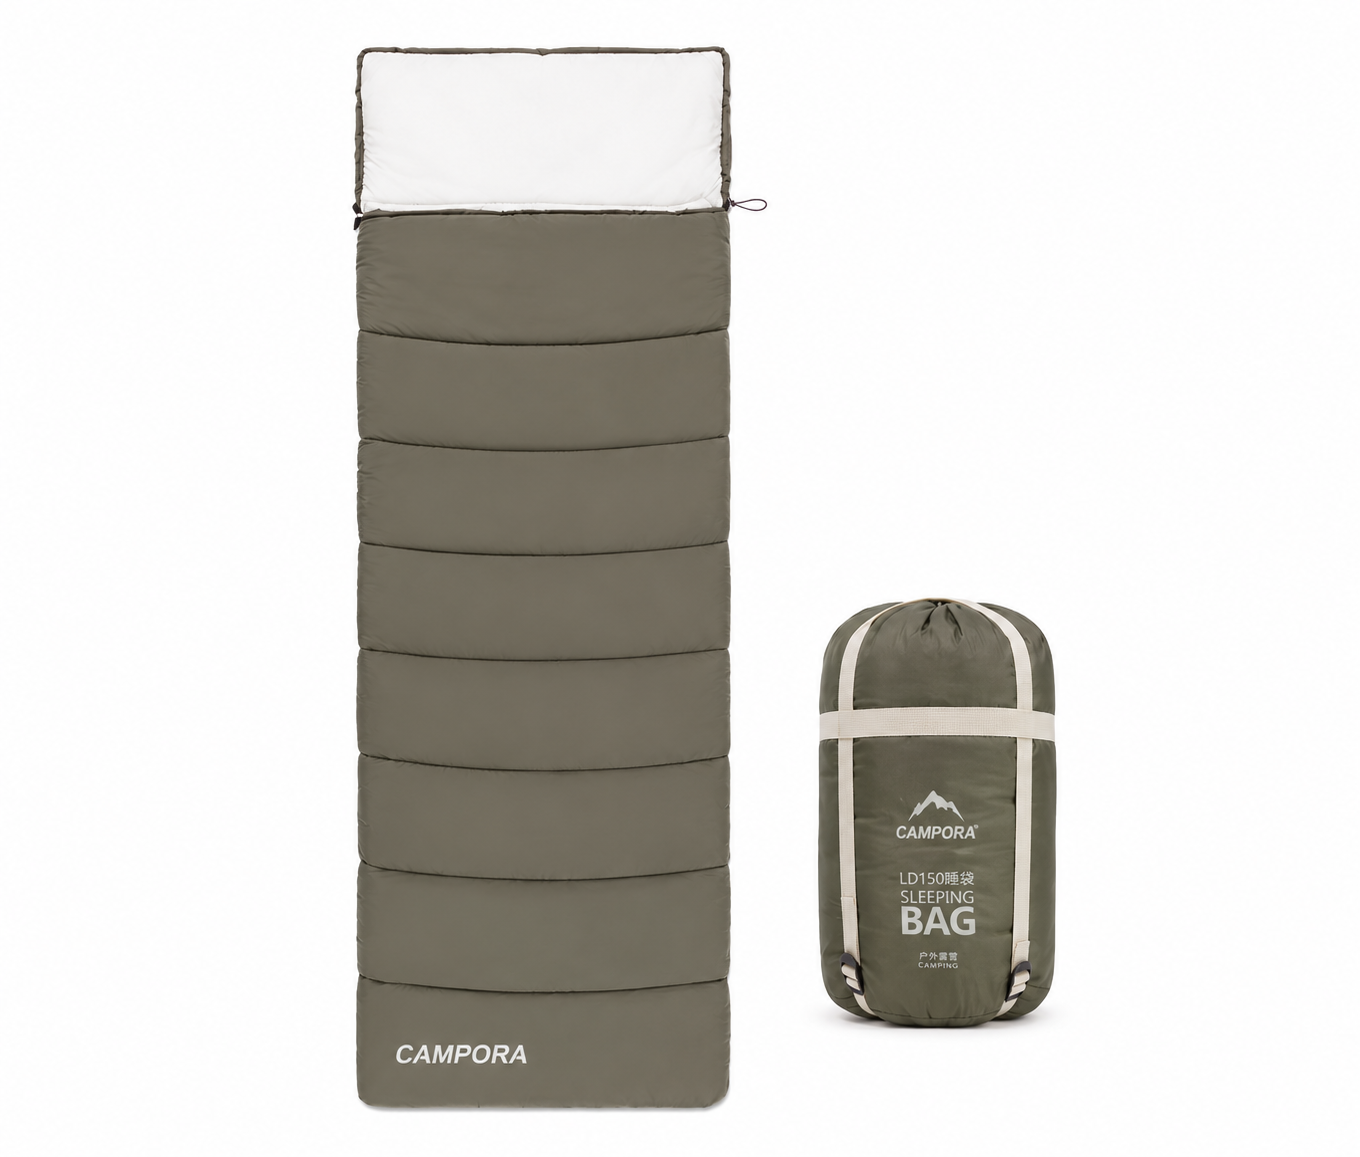
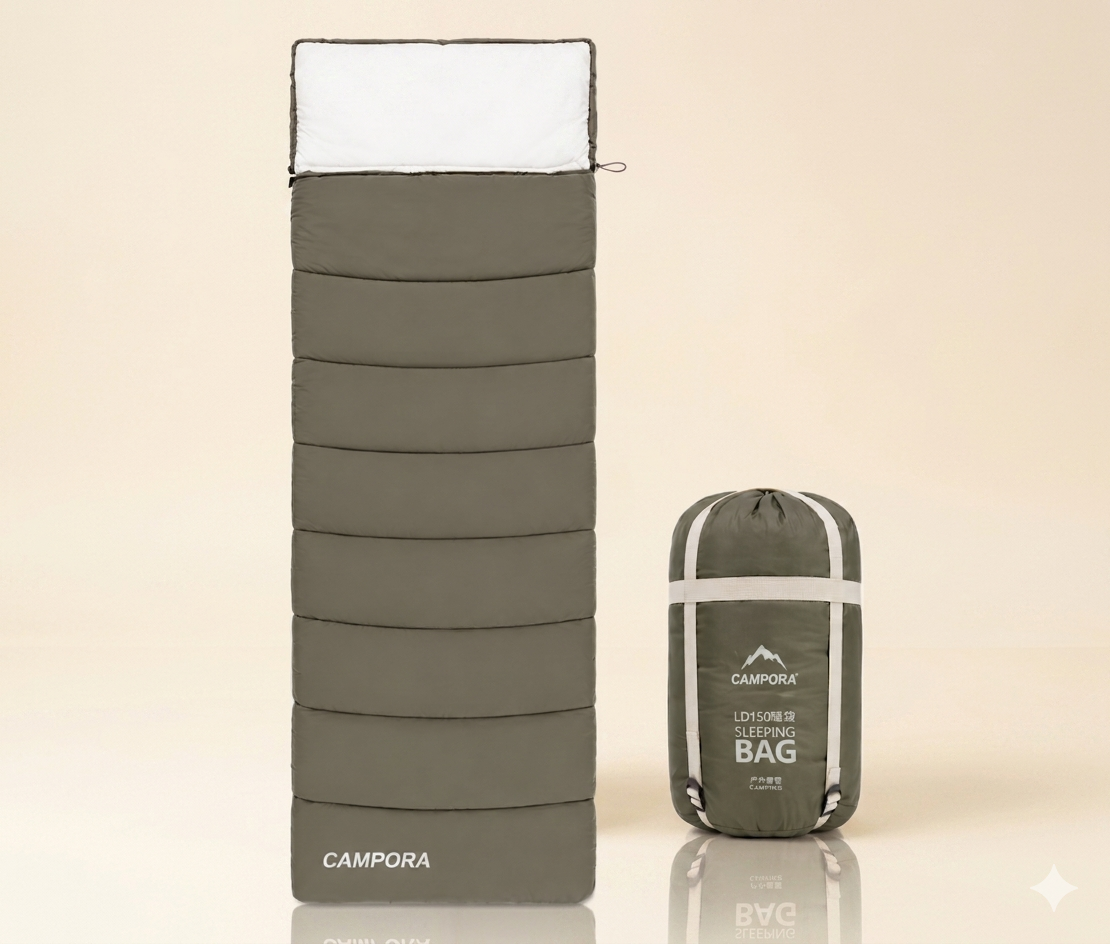
제품리스트 원가격,할인률,현가격 위치 조정 및 이미지 배경색 변경

diff --git a/src/pages/CurationFire.css b/src/pages/CurationFire.css
@@ -175,21 +175,6 @@
   margin: 0 0 12px;
 }
 
-.origin-price {
-  display: block;
-  font-size: 12px;
-  color: #999;
-  margin-bottom: 6px;
-  text-decoration: line-through;
-}
-
-.sale-price {
-  display: block;
-  font-size: 14px;
-  font-weight: 600;
-  margin-bottom: 16px;
-}
-
 .product-bottom {
   display: flex;
   justify-content: space-between;
@@ -341,6 +326,7 @@
   margin-bottom: 70px;
   text-align: center;
 }
+
 /*장바구니 버튼 클릭 */
 .fire-cart-btn {
   border: none;
@@ -353,36 +339,52 @@
 .fire-cart-btn:hover {
   transform: scale(1.15);
 }
-/* 가격 표시 */
-.price-wrap {
-  margin-top: 8px;
+
+/* 가격 영역 - CategoryPage 방식으로 고정 */
+.product-price-box {
+  margin-top: 10px;
+  min-height: 54px;
 }
 
-.origin-price {
-  display: block;
+.product-old-price {
+  height: 18px;
+  margin: 0 0 4px;
+  font-size: 12px;
   color: #999;
   text-decoration: line-through;
-  font-size: 12px;
-  margin-bottom: 3px;
+  line-height: 18px;
 }
 
-.sale-row {
+.product-old-price.empty {
+  visibility: hidden;
+}
+
+.product-price-row {
+  height: 26px;
   display: flex;
   align-items: center;
   gap: 6px;
+  line-height: 26px;
 }
 
-.sale-row em {
-  color: #2d8f7b;
-  font-style: normal;
-  font-weight: 700;
+.product-price-row.no-discount {
+  margin-top: 0;
+}
+
+.discount-rate {
   font-size: 15px;
+  font-weight: 700;
+  color: #2d8f7b;
+  flex-shrink: 0;
 }
 
-.sale-price {
+.product-price {
   font-size: 16px;
   font-weight: 700;
+  color: #111;
+  white-space: nowrap;
 }
+
 /* 카트 이모티콘 */
 .cart-icon-btn {
   border: none;

diff --git a/src/pages/CurationFire.jsx b/src/pages/CurationFire.jsx
@@ -233,23 +233,23 @@ function CurationFire() {
       <Link to={`/product/${item.detailId}`}>
         <img src={item.image} alt={item.name} />
       </Link>
-
       <div className="product-info">
         <h4>{item.name}</h4>
-        <div className="price-wrap">
-          <span className="origin-price">
-            {item.originPrice}
-          </span>
-
-          <div className="sale-row">
-            <em>{item.discount}%</em>
-
-            <strong className="sale-price">
-              {item.price}
-            </strong>
+        <div className="product-price-box">
+          <p className={item.discount > 0 ? 'product-old-price' : 'product-old-price empty'}>
+            {item.discount > 0 ? `${item.originPrice}원` : ''}
+          </p>
+          <div className={item.discount > 0 ? 'product-price-row' : 'product-price-row no-discount'}>
+            {item.discount > 0 && (
+              <span className="discount-rate">
+                {item.discount}%
+              </span>
+            )}
+            <span className="product-price">
+              {item.price}원
+            </span>
           </div>
         </div>
-
         <div className="product-bottom">
           <small>★ 4.8&nbsp;&nbsp;(20)</small>
           <div className="fire-icons">

diff --git a/src/data/products.js b/src/data/products.js
@@ -417,7 +417,7 @@ export const products = [
     price: '89,000',
     rating: 4.8,
     review: 1,
-    image: '/images/products/prod-sc-03.jpg',
+    image: '/images/products/prod-sc-03.png',
   },
   {
     id: 32,
@@ -482,7 +482,7 @@ export const products = [
     price: '54,000',
     rating: 4.8,
     review: 3,
-    image: '/images/products/prod-sc-06.jpg',
+    image: '/images/products/prod-sc-06.png',
   },
   {
     id: 37,
@@ -521,7 +521,7 @@ export const products = [
     price: '42,000',
     rating: 4.8,
     review: 2,
-    image: '/images/products/prod-sm-08.jpg',
+    image: '/images/products/prod-sm-08.png',
   },
   {
     id: 40,
